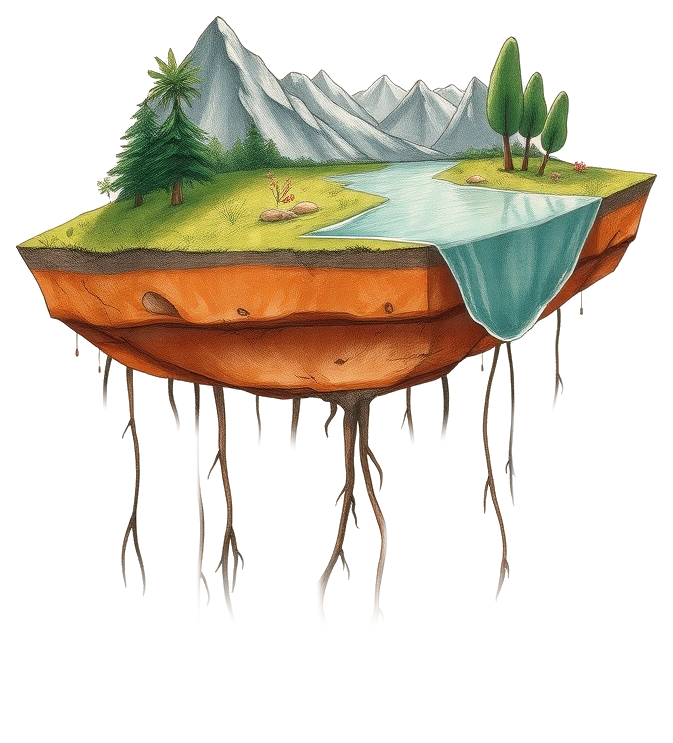
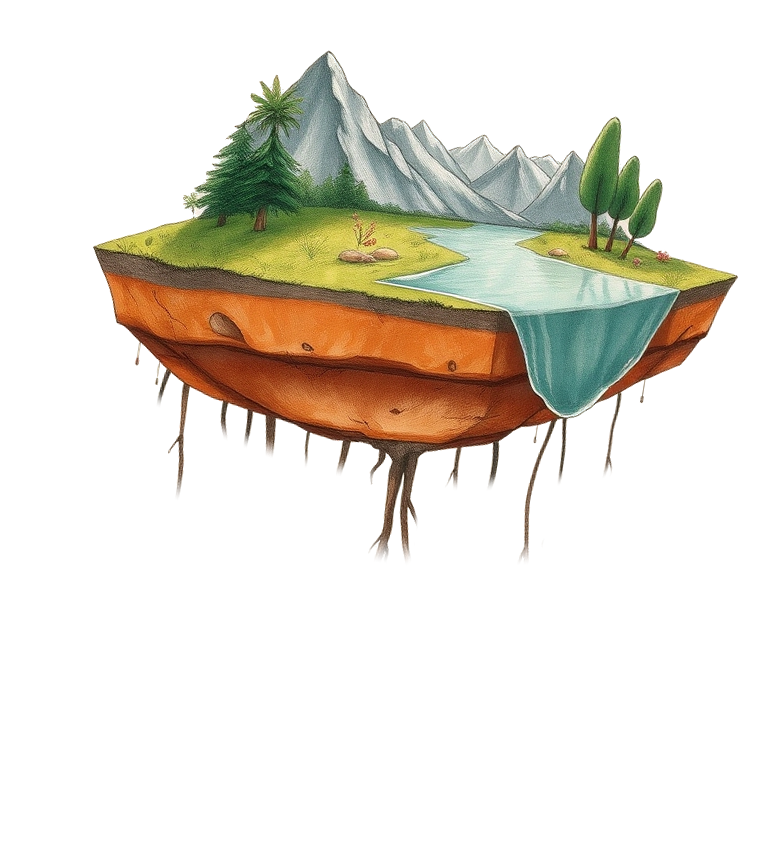
style: tilt island and reduce roots

Changed region(s): [[0.0312, 0.0, 0.9985, 0.8048]]

diff --git a/index.html b/index.html
@@ -211,7 +211,7 @@
           <p>Life on Vancouver Island includes running, gardening, family time outdoors, and small projects around the house.</p>
         </div>
         <figure class="island-diorama">
-          <img src="/src/assets/island-pencil.webp" width="673" height="743" loading="lazy" alt="A pencil-drawn floating island with mountains, water, trees and roots hanging below." />
+          <img src="/src/assets/island-pencil.webp" width="781" height="841" loading="lazy" alt="A tilted pencil-drawn floating island with mountains, water, trees and short roots below." />
           <figcaption class="label">An imagined island landscape.</figcaption>
         </figure>
       </section>

diff --git a/tests/outside.spec.js b/tests/outside.spec.js
@@ -2,7 +2,7 @@ import { chapterLink } from './navigation.js';
 import { test, expect } from '@playwright/test';
 
 const paragraph = 'Life on Vancouver Island includes running, gardening, family time outdoors, and small projects around the house.';
-const description = 'A pencil-drawn floating island with mountains, water, trees and roots hanging below.';
+const description = 'A tilted pencil-drawn floating island with mountains, water, trees and short roots below.';
 const sizes = [[1440,900],[961,641],[390,844],[320,800],[844,390]];
 
 test('island artwork is a transparent, locally hosted WebP', async ({page}) => {
